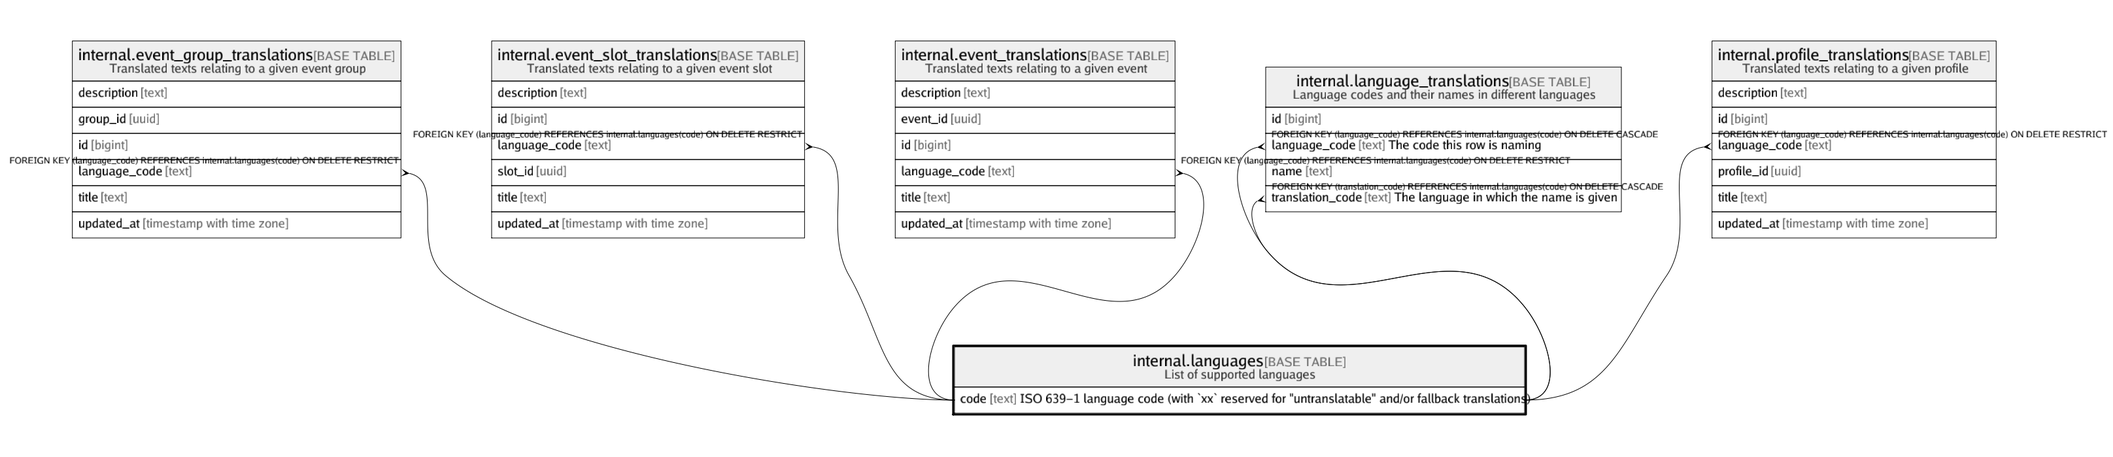
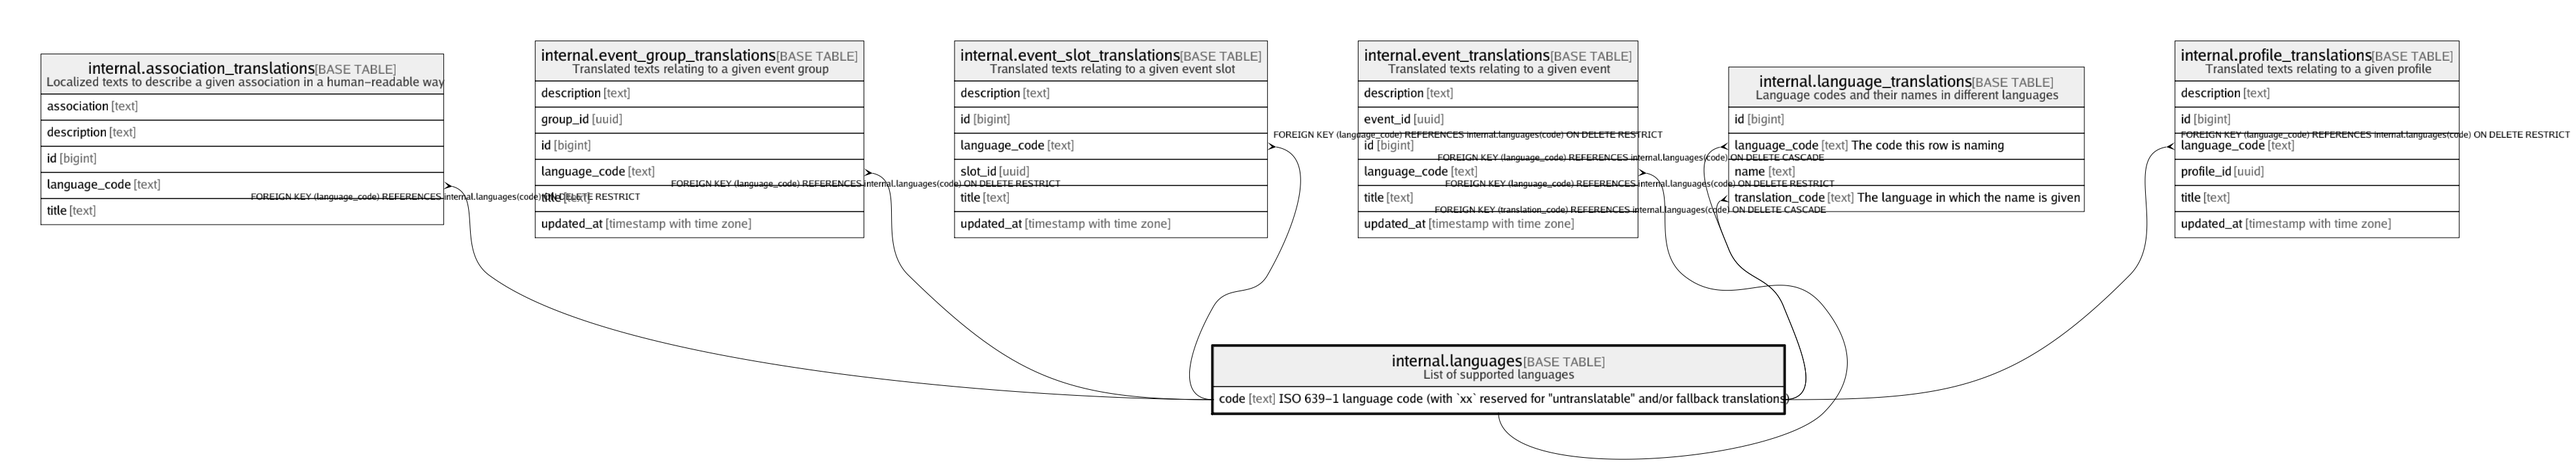
Add `associations` tables
Dance events are quite dynamic. One event may have 2 bands, one may
have 3. In some cases, the band is also the organizer, an instructor may
take photos, etc. For this reason, I have opted for a very dynamic
approach where relationships between profiles and event_slots are based
on "association tags". This allows any profile to have any role.

There will probably need to be some limits to this - a venue will need
to provide a location for example - but that is a problem for later.

diff --git a/docs/database/README.md b/docs/database/README.md
@@ -11,9 +11,12 @@
 | [api_auth.usage](api_auth.usage.md) | 6 |  | VIEW |
 | [api_auth.user_config](api_auth.user_config.md) | 9 | API Key restrictions and other API related configuration | BASE TABLE |
 | [auth.users](auth.users.md) | 32 | Auth: Stores user login data within a secure schema. | BASE TABLE |
+| [internal.association_translations](internal.association_translations.md) | 5 | Localized texts to describe a given association in a human-readable way | BASE TABLE |
+| [internal.associations](internal.associations.md) | 2 | Listing of the different ways a profile may be associated with an event_slot | BASE TABLE |
 | [internal.event_group_translations](internal.event_group_translations.md) | 6 | Translated texts relating to a given event group | BASE TABLE |
 | [internal.event_groups](internal.event_groups.md) | 4 | A grouping of event_slots within an event.<br><br>"event" is a top-level abstraction, typically symbolizing the entirety of e.g. "Dansbandveckan i Malung".<br><br>An event can be split into groups, typically symbolizing e.g. the day, a group of people or something else.<br>It is up to the event organizer to create appropriate groupings for their specific event.<br><br>Each group in the event can be further subdivided into individual "slots". The slot symbolizes an individual<br>e.g. dance or course session. | BASE TABLE |
 | [internal.event_organizers](internal.event_organizers.md) | 5 | Determines which profiles are considered organizers of a given event.<br><br>Any user that is considered an owner of an organizing profile may edit the event in question.<br><br>Example:<br><br>"John" creates an event and adds the "Phantastico" band profile as an organizer. Since "Jane" is one of the `profile_owners`<br>for the "Phantastico" band, she also receives edit access | BASE TABLE |
+| [internal.event_slot_profile_associations](internal.event_slot_profile_associations.md) | 5 | Relates profiles to event slots. | BASE TABLE |
 | [internal.event_slot_translations](internal.event_slot_translations.md) | 6 | Translated texts relating to a given event slot | BASE TABLE |
 | [internal.event_slots](internal.event_slots.md) | 6 | An atomic unit within an event, e.g. a single course session or dance.<br><br>"event" is a top-level abstraction, typically symbolizing the entirety of e.g. "Dansbandveckan i Malung".<br><br>An event can be split into groups, typically symbolizing e.g. the day, a group of people or something else.<br>It is up to the event organizer to create appropriate groupings for their specific event.<br><br>Each group in the event can be further subdivided into individual "slots". The slot symbolizes an individual<br>e.g. dance or course session. | BASE TABLE |
 | [internal.event_translations](internal.event_translations.md) | 6 | Translated texts relating to a given event | BASE TABLE |

diff --git a/docs/database/internal.event_slot_profile_associations.md b/docs/database/internal.event_slot_profile_associations.md
@@ -1,0 +1,40 @@
+# internal.event_slot_profile_associations
+
+## Description
+
+Relates profiles to event slots.
+
+## Columns
+
+| Name | Type | Default | Nullable | Children | Parents | Comment |
+| ---- | ---- | ------- | -------- | -------- | ------- | ------- |
+| association | text |  | false |  | [internal.associations](internal.associations.md) | The role a given profile has in the context of the event slot. |
+| created_at | timestamp with time zone | (now() AT TIME ZONE 'utc'::text) | false |  |  |  |
+| id | bigint | nextval('internal.event_slot_profile_associations_id_seq'::regclass) | false |  |  |  |
+| profile_id | uuid |  | false |  | [internal.profiles](internal.profiles.md) |  |
+| slot_id | uuid |  | false |  | [internal.event_slots](internal.event_slots.md) |  |
+
+## Constraints
+
+| Name | Type | Definition |
+| ---- | ---- | ---------- |
+| event_slot_profile_associations_association_fkey | FOREIGN KEY | FOREIGN KEY (association) REFERENCES internal.associations(association) ON DELETE RESTRICT |
+| event_slot_profile_associations_pkey | PRIMARY KEY | PRIMARY KEY (id) |
+| event_slot_profile_associations_profile_id_fkey | FOREIGN KEY | FOREIGN KEY (profile_id) REFERENCES internal.profiles(id) ON DELETE CASCADE |
+| event_slot_profile_associations_slot_id_fkey | FOREIGN KEY | FOREIGN KEY (slot_id) REFERENCES internal.event_slots(id) ON DELETE CASCADE |
+| event_slot_profile_associations_slot_id_profile_id_association_ | UNIQUE | UNIQUE (slot_id, profile_id, association) |
+
+## Indexes
+
+| Name | Definition |
+| ---- | ---------- |
+| event_slot_profile_associations_pkey | CREATE UNIQUE INDEX event_slot_profile_associations_pkey ON internal.event_slot_profile_associations USING btree (id) |
+| event_slot_profile_associations_slot_id_profile_id_association_ | CREATE UNIQUE INDEX event_slot_profile_associations_slot_id_profile_id_association_ ON internal.event_slot_profile_associations USING btree (slot_id, profile_id, association) |
+
+## Relations
+
+![er](internal.event_slot_profile_associations.png)
+
+---
+
+> Generated by [tbls](https://github.com/k1LoW/tbls)

diff --git a/docs/database/internal.association_translations.md b/docs/database/internal.association_translations.md
@@ -1,0 +1,40 @@
+# internal.association_translations
+
+## Description
+
+Localized texts to describe a given association in a human-readable way
+
+## Columns
+
+| Name | Type | Default | Nullable | Children | Parents | Comment |
+| ---- | ---- | ------- | -------- | -------- | ------- | ------- |
+| association | text |  | false |  | [internal.associations](internal.associations.md) |  |
+| description | text |  | false |  |  |  |
+| id | bigint | nextval('internal.association_translations_id_seq'::regclass) | false |  |  |  |
+| language_code | text |  | false |  | [internal.languages](internal.languages.md) |  |
+| title | text |  | false |  |  |  |
+
+## Constraints
+
+| Name | Type | Definition |
+| ---- | ---- | ---------- |
+| association_translations_association_fkey | FOREIGN KEY | FOREIGN KEY (association) REFERENCES internal.associations(association) ON DELETE CASCADE |
+| association_translations_association_language_code_key | UNIQUE | UNIQUE (association, language_code) |
+| association_translations_language_code_fkey | FOREIGN KEY | FOREIGN KEY (language_code) REFERENCES internal.languages(code) ON DELETE RESTRICT |
+| association_translations_pkey | PRIMARY KEY | PRIMARY KEY (id) |
+
+## Indexes
+
+| Name | Definition |
+| ---- | ---------- |
+| association_translations_association_language_code_key | CREATE UNIQUE INDEX association_translations_association_language_code_key ON internal.association_translations USING btree (association, language_code) |
+| association_translations_pkey | CREATE UNIQUE INDEX association_translations_pkey ON internal.association_translations USING btree (id) |
+| association_translations_title_gin_idx | CREATE INDEX association_translations_title_gin_idx ON internal.association_translations USING gin (title gin_trgm_ops) |
+
+## Relations
+
+![er](internal.association_translations.png)
+
+---
+
+> Generated by [tbls](https://github.com/k1LoW/tbls)

diff --git a/docs/database/internal.languages.md b/docs/database/internal.languages.md
@@ -8,7 +8,7 @@ List of supported languages
 
 | Name | Type | Default | Nullable | Children | Parents | Comment |
 | ---- | ---- | ------- | -------- | -------- | ------- | ------- |
-| code | text |  | false | [internal.event_group_translations](internal.event_group_translations.md) [internal.event_slot_translations](internal.event_slot_translations.md) [internal.event_translations](internal.event_translations.md) [internal.language_translations](internal.language_translations.md) [internal.profile_translations](internal.profile_translations.md) |  | ISO 639-1 language code (with `xx` reserved for "untranslatable" and/or fallback translations) |
+| code | text |  | false | [internal.association_translations](internal.association_translations.md) [internal.event_group_translations](internal.event_group_translations.md) [internal.event_slot_translations](internal.event_slot_translations.md) [internal.event_translations](internal.event_translations.md) [internal.language_translations](internal.language_translations.md) [internal.profile_translations](internal.profile_translations.md) |  | ISO 639-1 language code (with `xx` reserved for "untranslatable" and/or fallback translations) |
 
 ## Constraints
 

diff --git a/docs/database/internal.associations.md b/docs/database/internal.associations.md
@@ -1,0 +1,33 @@
+# internal.associations
+
+## Description
+
+Listing of the different ways a profile may be associated with an event_slot
+
+## Columns
+
+| Name | Type | Default | Nullable | Children | Parents | Comment |
+| ---- | ---- | ------- | -------- | -------- | ------- | ------- |
+| association | text |  | false | [internal.association_translations](internal.association_translations.md) [internal.event_slot_profile_associations](internal.event_slot_profile_associations.md) |  |  |
+| created_at | timestamp with time zone | (now() AT TIME ZONE 'utc'::text) | false |  |  |  |
+
+## Constraints
+
+| Name | Type | Definition |
+| ---- | ---- | ---------- |
+| associations_association_check | CHECK | CHECK ((association = lower(association))) |
+| associations_pkey | PRIMARY KEY | PRIMARY KEY (association) |
+
+## Indexes
+
+| Name | Definition |
+| ---- | ---------- |
+| associations_pkey | CREATE UNIQUE INDEX associations_pkey ON internal.associations USING btree (association) |
+
+## Relations
+
+![er](internal.associations.png)
+
+---
+
+> Generated by [tbls](https://github.com/k1LoW/tbls)

diff --git a/docs/database/internal.profiles.md b/docs/database/internal.profiles.md
@@ -13,7 +13,7 @@ A profile may be owned by multiple users but does not directly represent individ
 | Name | Type | Default | Nullable | Children | Parents | Comment |
 | ---- | ---- | ------- | -------- | -------- | ------- | ------- |
 | created_at | timestamp with time zone | (now() AT TIME ZONE 'utc'::text) | false |  |  |  |
-| id | uuid | gen_random_uuid() | false | [internal.event_organizers](internal.event_organizers.md) [internal.profile_owners](internal.profile_owners.md) [internal.profile_translations](internal.profile_translations.md) |  |  |
+| id | uuid | gen_random_uuid() | false | [internal.event_organizers](internal.event_organizers.md) [internal.event_slot_profile_associations](internal.event_slot_profile_associations.md) [internal.profile_owners](internal.profile_owners.md) [internal.profile_translations](internal.profile_translations.md) |  |  |
 | updated_at | timestamp with time zone | (now() AT TIME ZONE 'utc'::text) | false |  |  |  |
 
 ## Constraints

diff --git a/docs/database/internal.event_slots.md b/docs/database/internal.event_slots.md
@@ -19,7 +19,7 @@ e.g. dance or course session.
 | created_at | timestamp with time zone | (now() AT TIME ZONE 'utc'::text) | false |  |  |  |
 | end | timestamp with time zone |  | false |  |  |  |
 | group_id | uuid |  | false |  | [internal.event_groups](internal.event_groups.md) | Id of the event group this slot is a member of. |
-| id | uuid | gen_random_uuid() | false | [internal.event_slot_translations](internal.event_slot_translations.md) |  |  |
+| id | uuid | gen_random_uuid() | false | [internal.event_slot_profile_associations](internal.event_slot_profile_associations.md) [internal.event_slot_translations](internal.event_slot_translations.md) |  |  |
 | start | timestamp with time zone |  | false |  |  |  |
 | updated_at | timestamp with time zone | (now() AT TIME ZONE 'utc'::text) | false |  |  |  |
 
